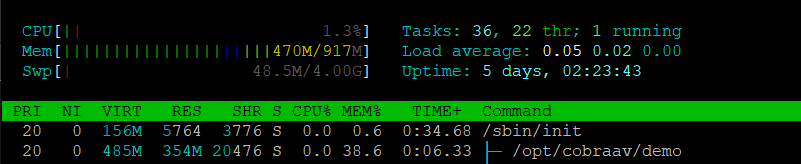
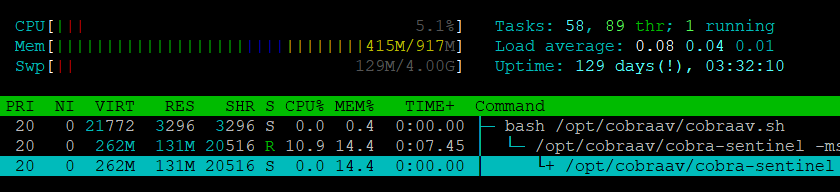
Updated readme

diff --git a/README.md b/README.md
@@ -1,29 +1,47 @@
 # CobraAV
 ![](imgs/logo.png)
 <br><br/>
-## Инструкция по использованию предварительной версии:
+## Использование
 
+### Установка:
+- Скачать дистрибутив программы из раздела [Releases](https://github.com/COOLIRON2311/CobraAV/releases)
+- Установить его командой `sudo apt install ./cobraav_0.1_amd64.deb`
+
+### Использование live-версии программы:
 - Скачать файл [tools/putty.exe](tools/putty.exe) из данного репозитория.
 Поместить его в одну директорию с файлом `server.cmd`, предоставляемым Вам отдельно
 - Скачать, установить и запустить [Xming](http://www.straightrunning.com/XmingNotes/)
 - Запустить `server.cmd`
-- Выполнить команду `cobra config` для демонстрации графического конфигуратора
-- Выполнить команду `cobra start/stop/status` для демонстрации управления службой сканирования
-- Выполнить команду `scanner имена файлов` для демонстрации сканирования файлов<br><br/>
+- Протестировать утилиту `cobra` согласно следующей инструкции:
+```
+Usage: cobra [command] [file]                                     
+                                                                  
+Commands:                                                         
+                                                                  
+ start/stop/status - Cobra Sentinel service control (reqires root)
+ (de)contain       - Move file from/to quarantine                 
+ remove            - Delete contained threat                      
+ config            - Open configuration interface                 
+ scan              - Manually specify scan target                 
+ whitelist         - Add file signature to exceptions list        
+ blacklist         - Add file signature to malware database       
+ list-threats      - View contained threats                       
+ clear-threats     - Delete all contained threats                 
+``` 
+<br><br/>
 
 ***Обратите внимание:***
-- на данном этапе разработки служба сканирования и утилита `scanner` загружают антивирусные сигнатуры раздельно! (потребляют в два раза больше памяти)
 - для всех команд работает [умное авто-дополнение bash](unix/cobra.sh)
 
 ![](imgs/tab.gif)
 <br><br/>
 
 ## Демонстрация работы программы:<br><br/>
-### Графический конфигуратор:<br><br/>
-![](imgs/config.jpg) ![](imgs/config2.jpg)<br><br/>
+### Графический конфигуратор: (NEW!)<br><br/>
+![](imgs/config.png) ![](imgs/config2.png)<br><br/>
 
-### Потребление памяти:<br><br/>
+### Потребление памяти: (NEW!)<br><br/>
 ![](imgs/mem.png)<br><br/>
 
-### Результаты сканирования:<br><br/>
-![](imgs/scan.png)<br><br/>
+### Результаты сканирования: (NEW!)<br><br/>
+![](imgs/scan.jpg)<br><br/>
